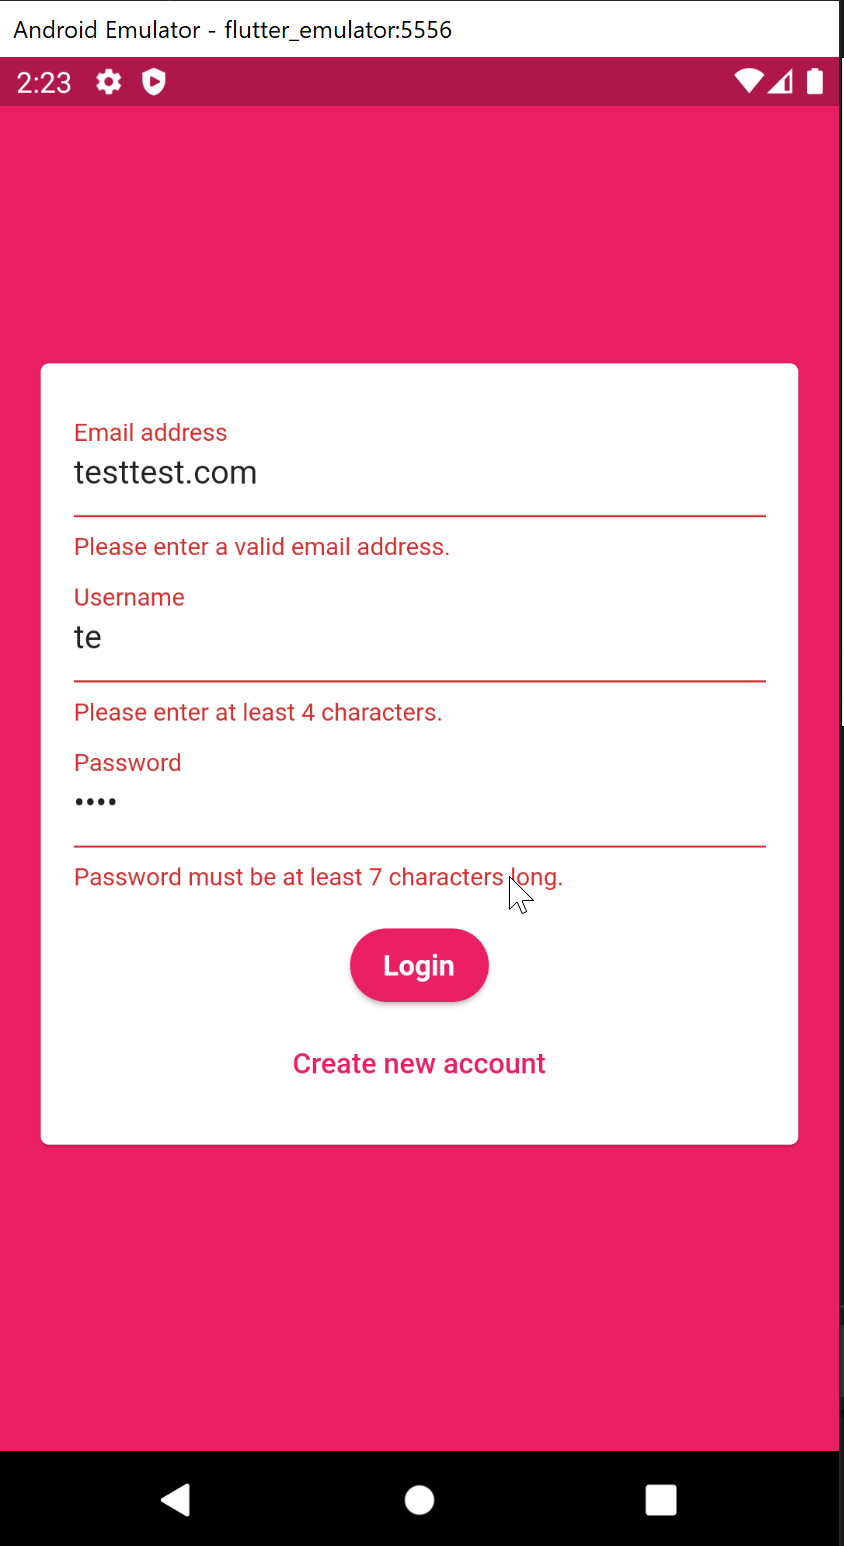
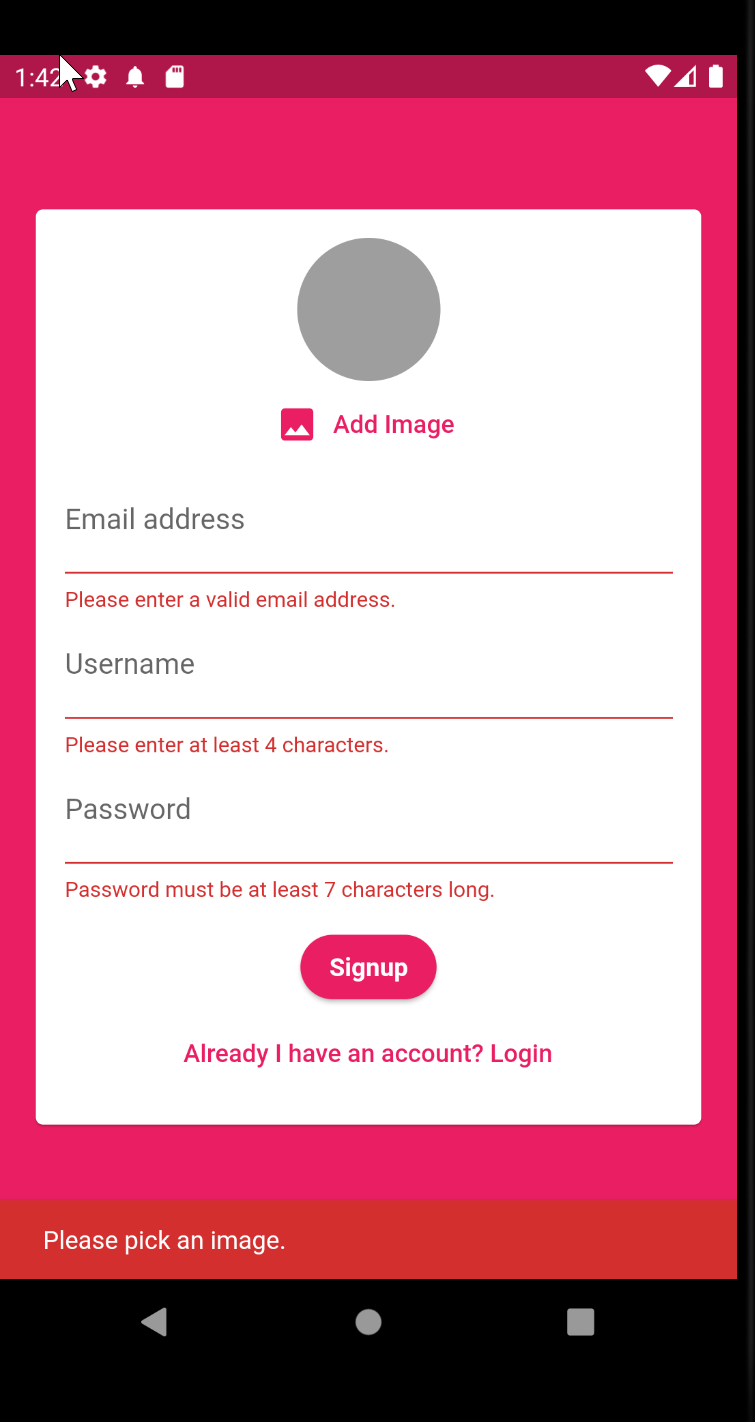
update UI Picture and some minor issue of nullable file

diff --git a/chat_app/lib/screens/auth_screen.dart b/chat_app/lib/screens/auth_screen.dart
@@ -20,7 +20,7 @@ class _AuthScreenState extends State<AuthScreen> {
   var _isLoading = false;
 
   void _submitAuthForm(String email, String password, String username,
-      File image, bool isLogin, BuildContext context) async {
+      File? image, bool isLogin, BuildContext context) async {
     UserCredential authResult;
     // Pushing Firebase in here
     try {
@@ -31,17 +31,18 @@ class _AuthScreenState extends State<AuthScreen> {
         // Existing user
         authResult = await _auth.signInWithEmailAndPassword(
             email: email, password: password);
+        print(email);
       } else {
         // Get PlayerID for OneSignal
         var deviceState = await OneSignal.shared.getDeviceState();
 
-          if (deviceState == null || deviceState.userId == null) {
-            return;
-          }
+        if (deviceState == null || deviceState.userId == null) {
+          return;
+        }
 
-          var playerId = deviceState.userId!;
+        var playerId = deviceState.userId!;
 
-          // Onesignal Id End
+        // Onesignal Id End
 
         // New user
         authResult = await _auth.createUserWithEmailAndPassword(
@@ -51,8 +52,7 @@ class _AuthScreenState extends State<AuthScreen> {
             .ref()
             .child('user_image')
             .child(authResult.user!.uid + '.jpg');
-        await ref.putFile(image).whenComplete(
-            () => null);
+        await ref.putFile(image!).whenComplete(() => null);
 
         final url = await ref.getDownloadURL();
 

diff --git a/chat_app/lib/widgets/auth/auth_form.dart b/chat_app/lib/widgets/auth/auth_form.dart
@@ -8,7 +8,7 @@ class AuthForm extends StatefulWidget {
       : super(key: key);
 
   final bool isLoading;
-  final void Function(String email, String password, String userName, File image,
+  final void Function(String email, String password, String userName, File? image,
       bool isLogin, BuildContext context) submitFn;
 
   @override

diff --git a/chat_app/lib/widgets/chat/new_message.dart b/chat_app/lib/widgets/chat/new_message.dart
@@ -1,5 +1,3 @@
-import 'dart:ffi';
-
 import 'package:cloud_firestore/cloud_firestore.dart';
 import 'package:firebase_auth/firebase_auth.dart';
 import 'package:flutter/material.dart';
